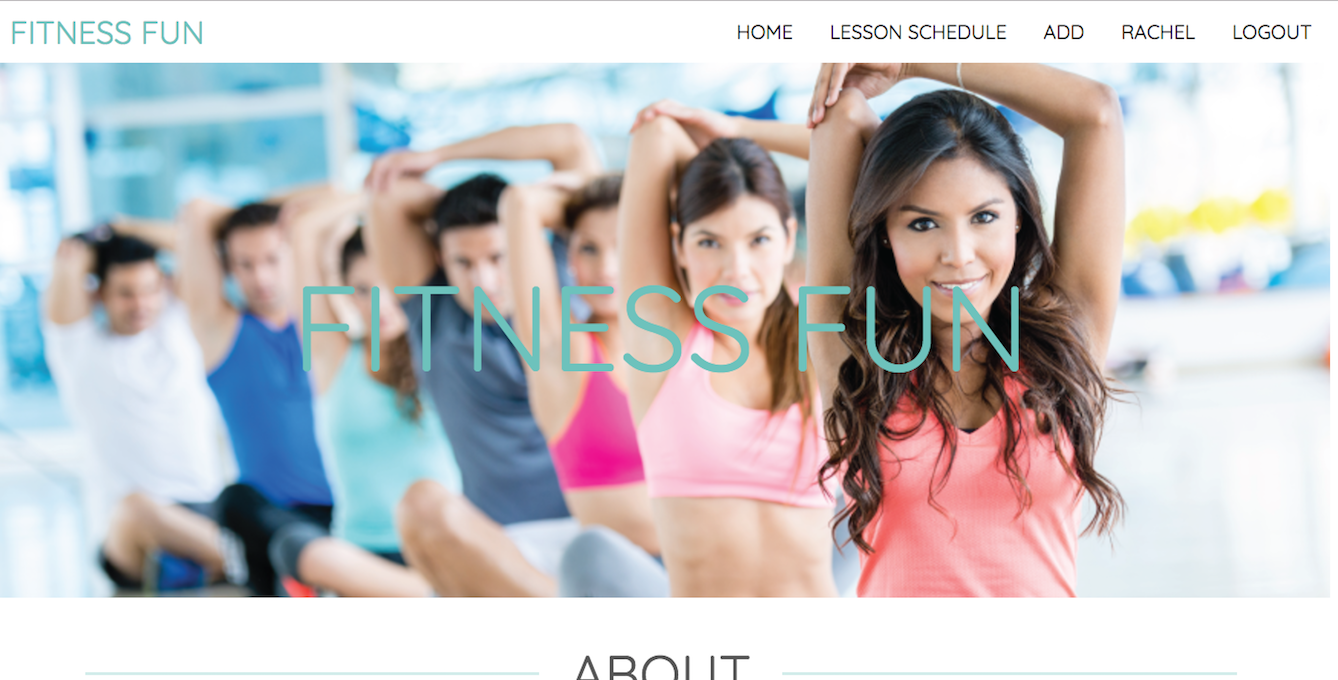
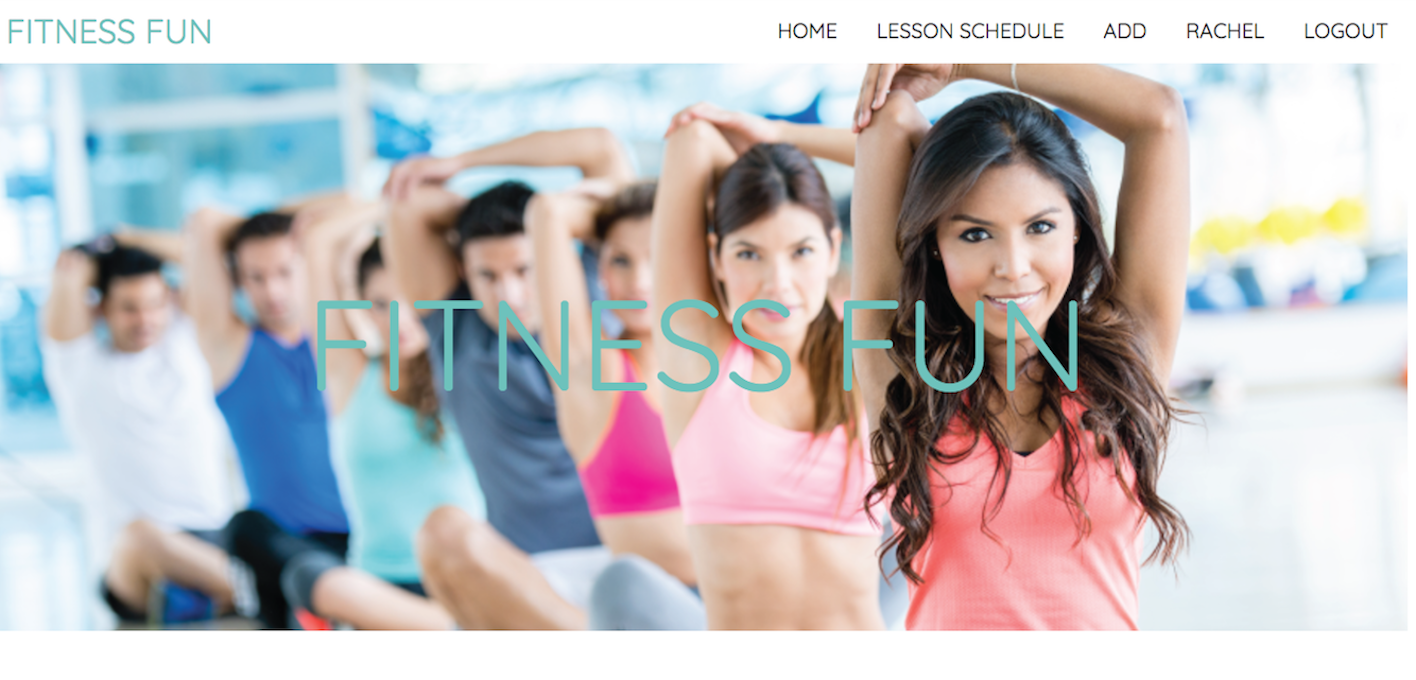
changed layout of proj pages

diff --git a/src/js/views/proj1.html b/src/js/views/proj1.html
@@ -1,31 +1,22 @@
-
-<div class= "projSection">
-  <ul class= "row">
-    <li class= "col-xs-12 col-md-6">
-      <div class="aboutProj">
-        <h2>SPACE EVADER</h2>
-        <h3> Project One at GA</h3>
-        <h4>This was my first project for the WDI course at General Assembly in London. Using jQuery and JavaScript, I produced a collision based game where the player controls a rocket in order to avoid asteroids falling down the screen. In order to complete this project I was able to practice logic based problem solving, css styling and adding music to a website.</h4>
-      </div>
-    </li>
-    <li class= "col-xs-12 col-md-6">
-      <div class="photoProj">
-        <img class="img-fluid" src="/images/spaceEvader.png">
-        <ul class="row">
-          <li class= "col-xs-12 col-md-6"><h3><a href="https://github.com/nikkifargus/WDI_PROJECT_1"><i class="fa fa-github fa-lg" aria-hidden="true"></i>See code</a></h3></li>
-          <li class= "col-xs-12 col-md-6"><h3><a href="https://cryptic-castle-58803.herokuapp.com"><i class="fa fa-laptop fa-lg" aria-hidden="true"></i>Launch site</a></h3></li>
-        </ul>
-      </div>
-    </li>
+<div class="row">
+  <div class="col-12">
+    <img class="img-fluid" src="/images/spaceEvader.png">
+  </div>
+  <ul class="row links">
+    <li class= "col-xs-6"><h3><a href="https://github.com/nikkifargus/WDI_PROJECT_1"><i class="fa fa-github fa-lg" aria-hidden="true"></i>See code</a></h3></li>
+    <li class= "col-xs-6"><h3><a href="https://cryptic-castle-58803.herokuapp.com"><i class="fa fa-laptop fa-lg" aria-hidden="true"></i>Launch site</a></h3></li>
   </ul>
+  <div class="blurb">
+    <h4>Space Evader was my first project for the WDI course at General Assembly in London. Using jQuery and JavaScript, I produced a collision based game where the player controls a rocket in order to avoid asteroids falling down the screen. In order to complete this project I was able to practice logic based problem solving, css styling and adding music to a website.</h4>
+  </div>
 </div>
 
 <div class="arrows">
   <div class="row">
-    <div class= "col-xs-12 col-md-6">
+    <div class= "col-xs-6">
       <h1 ui-sref="proj4"> <i class="fa fa-arrow-left" aria-hidden="true"></i> </h1>
     </div>
-    <div class= "col-xs-12 col-md-6">
+    <div class= "col-xs-6">
       <h1 ui-sref="proj2"><i class="fa fa-arrow-right" aria-hidden="true"></i></h1>
     </div>
   </div>

diff --git a/src/js/views/proj2.html b/src/js/views/proj2.html
@@ -1,34 +1,24 @@
-
-<div class= "projSection">
-  <ul class= "row">
-    <li class= "col-xs-12 col-md-6">
-      <div class="aboutProj">
-        <h2>SWEET SPOT RECIPE EXCHANGE</h2>
-        <h3> Project Two at GA</h3>
-        <h4>This was my first full stack web application in which I made an authenticated RESTful app using Node.js, Express, EJS and an external API. I found this project the most difficult because, as well as the coding languages being a new skill, the concept of implementing multiple interconnecting files was also new.</h4>
-      </div>
-    </li>
-    <li class= "col-xs-12 col-md-6">
-      <div class="photoProj">
-        <img class="img-fluid" src="/images/sweetSpot.png">
-        <ul class="row">
-          <li class= "col-xs-12 col-md-6"><h3><a href="https://github.com/nikkifargus/WDI_PROJECT_2"><i class="fa fa-github fa-lg" aria-hidden="true"></i>See code</a></h3></li>
-          <li class= "col-xs-12 col-md-6"><h3><a href="https://warm-oasis-10599.herokuapp.com/"><i class="fa fa-laptop fa-lg" aria-hidden="true"></i>Launch site</a></h3></li>
-        </ul>
-      </div>
-    </li>
+<div class="row">
+  <div class="col-12">
+    <img class="img-fluid" src="/images/sweetSpot.png">
+  </div>
+  <ul class="row links">
+    <li class= "col-xs-6"><h3><a href="https://github.com/nikkifargus/WDI_PROJECT_2"><i class="fa fa-github fa-lg" aria-hidden="true"></i>See code</a></h3></li>
+    <li class= "col-xs-6"><h3><a href="https://warm-oasis-10599.herokuapp.com/"><i class="fa fa-laptop fa-lg" aria-hidden="true"></i>Launch site</a></h3></li>
   </ul>
+  <div class="blurb">
+    <h4>Sweet Spot Recipe Exchange was my first full stack web application in which I made an authenticated RESTful app using Node.js, Express, EJS and an external API. I found this project the most difficult because, as well as the coding languages being a new skill, the concept of implementing multiple interconnecting files was also new.</h4>
+  </div>
 </div>
 
 <div class="arrows">
   <div class="row">
-    <div class= "col-xs-12 col-md-6">
+    <div class= "col-xs-6">
       <h1 ui-sref="proj1"> <i class="fa fa-arrow-left" aria-hidden="true"></i> </h1>
     </div>
-    <div class= "col-xs-12 col-md-6">
+    <div class= "col-xs-6">
       <h1 ui-sref="proj3"><i class="fa fa-arrow-right" aria-hidden="true"></i></h1>
     </div>
   </div>
 </div>
-
 <hr>

diff --git a/src/js/views/proj4.html b/src/js/views/proj4.html
@@ -1,24 +1,15 @@
-
-<div class= "projSection">
-  <ul class= "row">
-    <li class= "col-xs-12 col-md-6">
-      <div class="aboutProj">
-        <h2>FITNESS FUN CLASS SCHEDULING</h2>
-        <h3> Project Four at GA</h3>
-        <h4>For my final project I developed an authenticated RESTful app with a Ruby on Rails API. I learnt a lot about relational databases and the usefulness of Insomnia for testing. I really enjoyed implementing the frontend with AngularJS and styling with the help of the Bootstrap framework.</h4>
-      </div>
-    </li>
-    <li class= "col-xs-12 col-md-6">
-      <div class="photoProj">
-        <img class="img-fluid" src="/images/fitnessFun.png">
-        <ul class="row">
-          <li class= "col-xs-12 col-md-6"><h3><a href="https://github.com/nikkifargus/WDI_PROJECT_4_CLIENT"><i class="fa fa-github fa-lg" aria-hidden="true"></i>See frontend code</a></h3></li>
-          <li class= "col-xs-12 col-md-6"><h3><a href="https://github.com/nikkifargus/WDI_PROJECT_4_API"><i class="fa fa-github fa-lg" aria-hidden="true"></i>See backend code</a></h3></li>
-          <li class= "col-xs-12 col-md-6"><h3><a href="https://fitness-fun-classes.herokuapp.com/ "><i class="fa fa-laptop fa-lg" aria-hidden="true"></i>Launch site</a></h3></li>
-        </ul>
-      </div>
-    </li>
+<div class="row">
+  <div class="col-12">
+    <img class="img-fluid" src="/images/fitnessFun.png">
+  </div>
+  <ul class="row links">
+    <li class= "col-xs-4"><h3><a href="https://github.com/nikkifargus/WDI_PROJECT_4_CLIENT"><i class="fa fa-github fa-lg" aria-hidden="true"></i>See frontend code</a></h3></li>
+    <li class= "col-xs-4"><h3><a href="https://github.com/nikkifargus/WDI_PROJECT_4_API"><i class="fa fa-github fa-lg" aria-hidden="true"></i>See backend code</a></h3></li>
+    <li class= "col-xs-4"><h3><a href="https://fitness-fun-classes.herokuapp.com/ "><i class="fa fa-laptop fa-lg" aria-hidden="true"></i>Launch site</a></h3></li>
   </ul>
+  <div class="blurb">
+    <h4>Fitness Fun Class Scheduling was my final project at GA. I developed an authenticated RESTful app with a Ruby on Rails API. I learnt a lot about relational databases and the usefulness of Insomnia for testing my API. I really enjoyed implementing the frontend with AngularJS and styling with the help of the Bootstrap framework.</h4>
+  </div>
 </div>
 
 <div class="arrows">

diff --git a/src/js/views/proj3.html b/src/js/views/proj3.html
@@ -1,30 +1,21 @@
-
-<div class= "projSection">
-  <ul class= "row">
-    <li class= "col-xs-12 col-md-6">
-      <div class="aboutProj">
-        <h2>HAVADO STAG & HEN PLANNING</h2>
-        <h3> Project Three at GA</h3>
-        <h4>This was a group project in which we created an authenticated RESTful app using Node.js to make an API and AngularJS on the frontend. I mainly focussed on the initial setup, routes and CRUD functionality. My main takeaway was how to use GitHub development branches. </h4>
-      </div>
-    </li>
-    <li class= "col-xs-12 col-md-6">
-      <div class="photoProj">
-        <img class="img-fluid" src="/images/havado.png">
-        <ul class="row">
-          <li class= "col-xs-12 col-md-6"><h3><a href="https://github.com/Jwrighty/WDI_GROUP_PROJECT"><i class="fa fa-github fa-lg" aria-hidden="true"></i>See code</a></h3></li>
-          <li class= "col-xs-12 col-md-6"><h3><a href="https://frozen-savannah-91722.herokuapp.com/ "><i class="fa fa-laptop fa-lg" aria-hidden="true"></i>Launch site</a></h3></li>
-        </ul>
-      </div>
-    </li>
+<div class="row">
+  <div class="col-12">
+    <img class="img-fluid" src="/images/havado.png">
+  </div>
+  <ul class="row links">
+    <li class= "col-xs-6"><h3><a href="https://github.com/Jwrighty/WDI_GROUP_PROJECT"><i class="fa fa-github fa-lg" aria-hidden="true"></i>See code</a></h3></li>
+    <li class= "col-xs-6"><h3><a href="https://frozen-savannah-91722.herokuapp.com/ "><i class="fa fa-laptop fa-lg" aria-hidden="true"></i>Launch site</a></h3></li>
   </ul>
+  <div class="blurb">
+    <h4>Havado Stage and Hen Planning was a group project in which we created an authenticated RESTful app using Node.js to make an API and AngularJS on the frontend. I mainly focussed on the initial setup, routes and CRUD functionality. My main takeaway was how to use GitHub development branches.</h4>
+  </div>
 </div>
 <div class="arrows">
   <div class="row">
-    <div class= "col-xs-12 col-md-6">
+    <div class= "col-xs-6">
       <h1 ui-sref="proj2"> <i class="fa fa-arrow-left" aria-hidden="true"></i> </h1>
     </div>
-    <div class= "col-xs-12 col-md-6">
+    <div class= "col-xs-6">
       <h1 ui-sref="proj4"><i class="fa fa-arrow-right" aria-hidden="true"></i></h1>
     </div>
   </div>

diff --git a/src/js/views/work.html b/src/js/views/work.html
@@ -1,26 +1,30 @@
 <div class= "addSection">
   <ul class= "row">
-    <li class= "col-xs-12 col-md-4">
+    <li class= "col-xs-12 col-md-6">
+      <h3>GA Project 1</h3>
       <div class="addPhoto" ui-sref="proj1">
           <img class="img-fluid" src="/images/spaceEvader.png">
       </div>
     </li>
-    <li class= "col-xs-12 col-md-4">
+    <li class= "col-xs-12 col-md-6">
+      <h3>GA Project 2</h3>
       <div class="addPhoto" ui-sref="proj2">
           <img class="img-fluid" src="/images/sweetSpot.png">
       </div>
     </li>
-    <li class= "col-xs-12 col-md-4">
+    <li class= "col-xs-12 col-md-6">
+      <h3>GA Project 3</h3>
     <div class="addPhoto" ui-sref="proj3">
         <img class="img-fluid" src="/images/havado.png">
     </div>
     </li>
-    <li class= "col-xs-12 col-md-4">
+    <li class= "col-xs-12 col-md-6">
+      <h3>GA Project 4</h3>
       <div class="addPhoto" ui-sref="proj4">
           <img class="img-fluid" src="/images/fitnessFun.png">
       </div>
     </li>
-    <li class= "col-xs-12 col-md-4">
+    <!-- <li class= "col-xs-12 col-md-4">
       <div class="addPhoto" ui-sref="proj4">
           <img class="img-fluid" src="#">
       </div>
@@ -29,7 +33,7 @@
       <div class="addPhoto" ui-sref="proj4">
           <img class="img-fluid" src="#">
       </div>
-    </li>
+    </li> -->
   </ul>
 </div>
 <hr>

diff --git a/src/js/views/home.html b/src/js/views/home.html
@@ -8,12 +8,12 @@
       <div class="aboutMe">
         <h2>Nikki Fargus</h2>
         <h3> Hi, I'm a Junior Web Developer based in  London </h3>
-        <h4>I love to create new things and I enjoy the practical and problem solving aspects of coding. If I am not coding you'll find me baking, binge watching Netflix or travelling.</h4>
+        <h4>I love to create new things and I enjoy the practical and problem solving aspects of coding. My ideal job would be within an enthusiastic, friendly team that works collaborately so I can develop my skills. If I am not coding you'll find me baking, binge watching Netflix or travelling.</h4>
       </div>
     </li>
     <li class= "col-xs-12 col-md-6">
-      <div class="aboutMe" ui-sref="proj2">
-        <img class="img-fluid" src="#">
+      <div class="photoMe" ui-sref="proj2">
+        <img class="img-fluid" src="images/cartoonMe.png">
       </div>
     </li>
   </ul>

diff --git a/src/scss/_proj.scss b/src/scss/_proj.scss
@@ -1,31 +1,13 @@
-.projSection{
-  padding: 0;
-  margin-top: 5%;
-  margin-bottom: 0;
-  .row{
-    padding: 0;
-    margin: 0;
-    li{
-      padding: 5px;
-    }
-    .photoProj{
-      margin:0 auto;
-      padding: 0;
-      text-align: center;
-      // width: 85%;
-      a{
-        color: black;
-      }
-    }
-    .aboutProj{
-      margin:0 auto;
-      padding: 0;
-      width: 85%;
-      h2{
-        margin-top: 0;
-      }
-    }
+.links{
+
+  text-align: center;
+  a{
+    color: black;
   }
+}
+
+.blurb{
+  text-align: center;
 }
 
 .arrows{

diff --git a/src/scss/_about.scss b/src/scss/_about.scss
@@ -4,9 +4,20 @@
   margin-bottom: 5%;
   .row{
     padding: 0;
+    .photoMe{
+      width: 85%;
+      margin:0 auto;
+      text-align: center;
+      img{
+        width: 70%;
+      }
+    }
     .aboutMe{
       width: 85%;
       margin:0 auto;
+      img{
+        width: 70%;
+      }
     }
   }
 }

diff --git a/src/scss/_nav.scss b/src/scss/_nav.scss
@@ -2,7 +2,7 @@
   border-width:1px 0;
   list-style:none;
   // margin:0;
-  margin-top: 2%;
+  // margin-top: 2%;
   padding:0;
   text-align:center;
   li{

diff --git a/src/scss/_work.scss b/src/scss/_work.scss
@@ -1,7 +1,7 @@
 .addSection{
   text-align: center;
   padding: 0;
-  margin-top: 3%;
+  // margin-top: 3%;
   .row{
     padding: 0;
     // margin: 5px;
